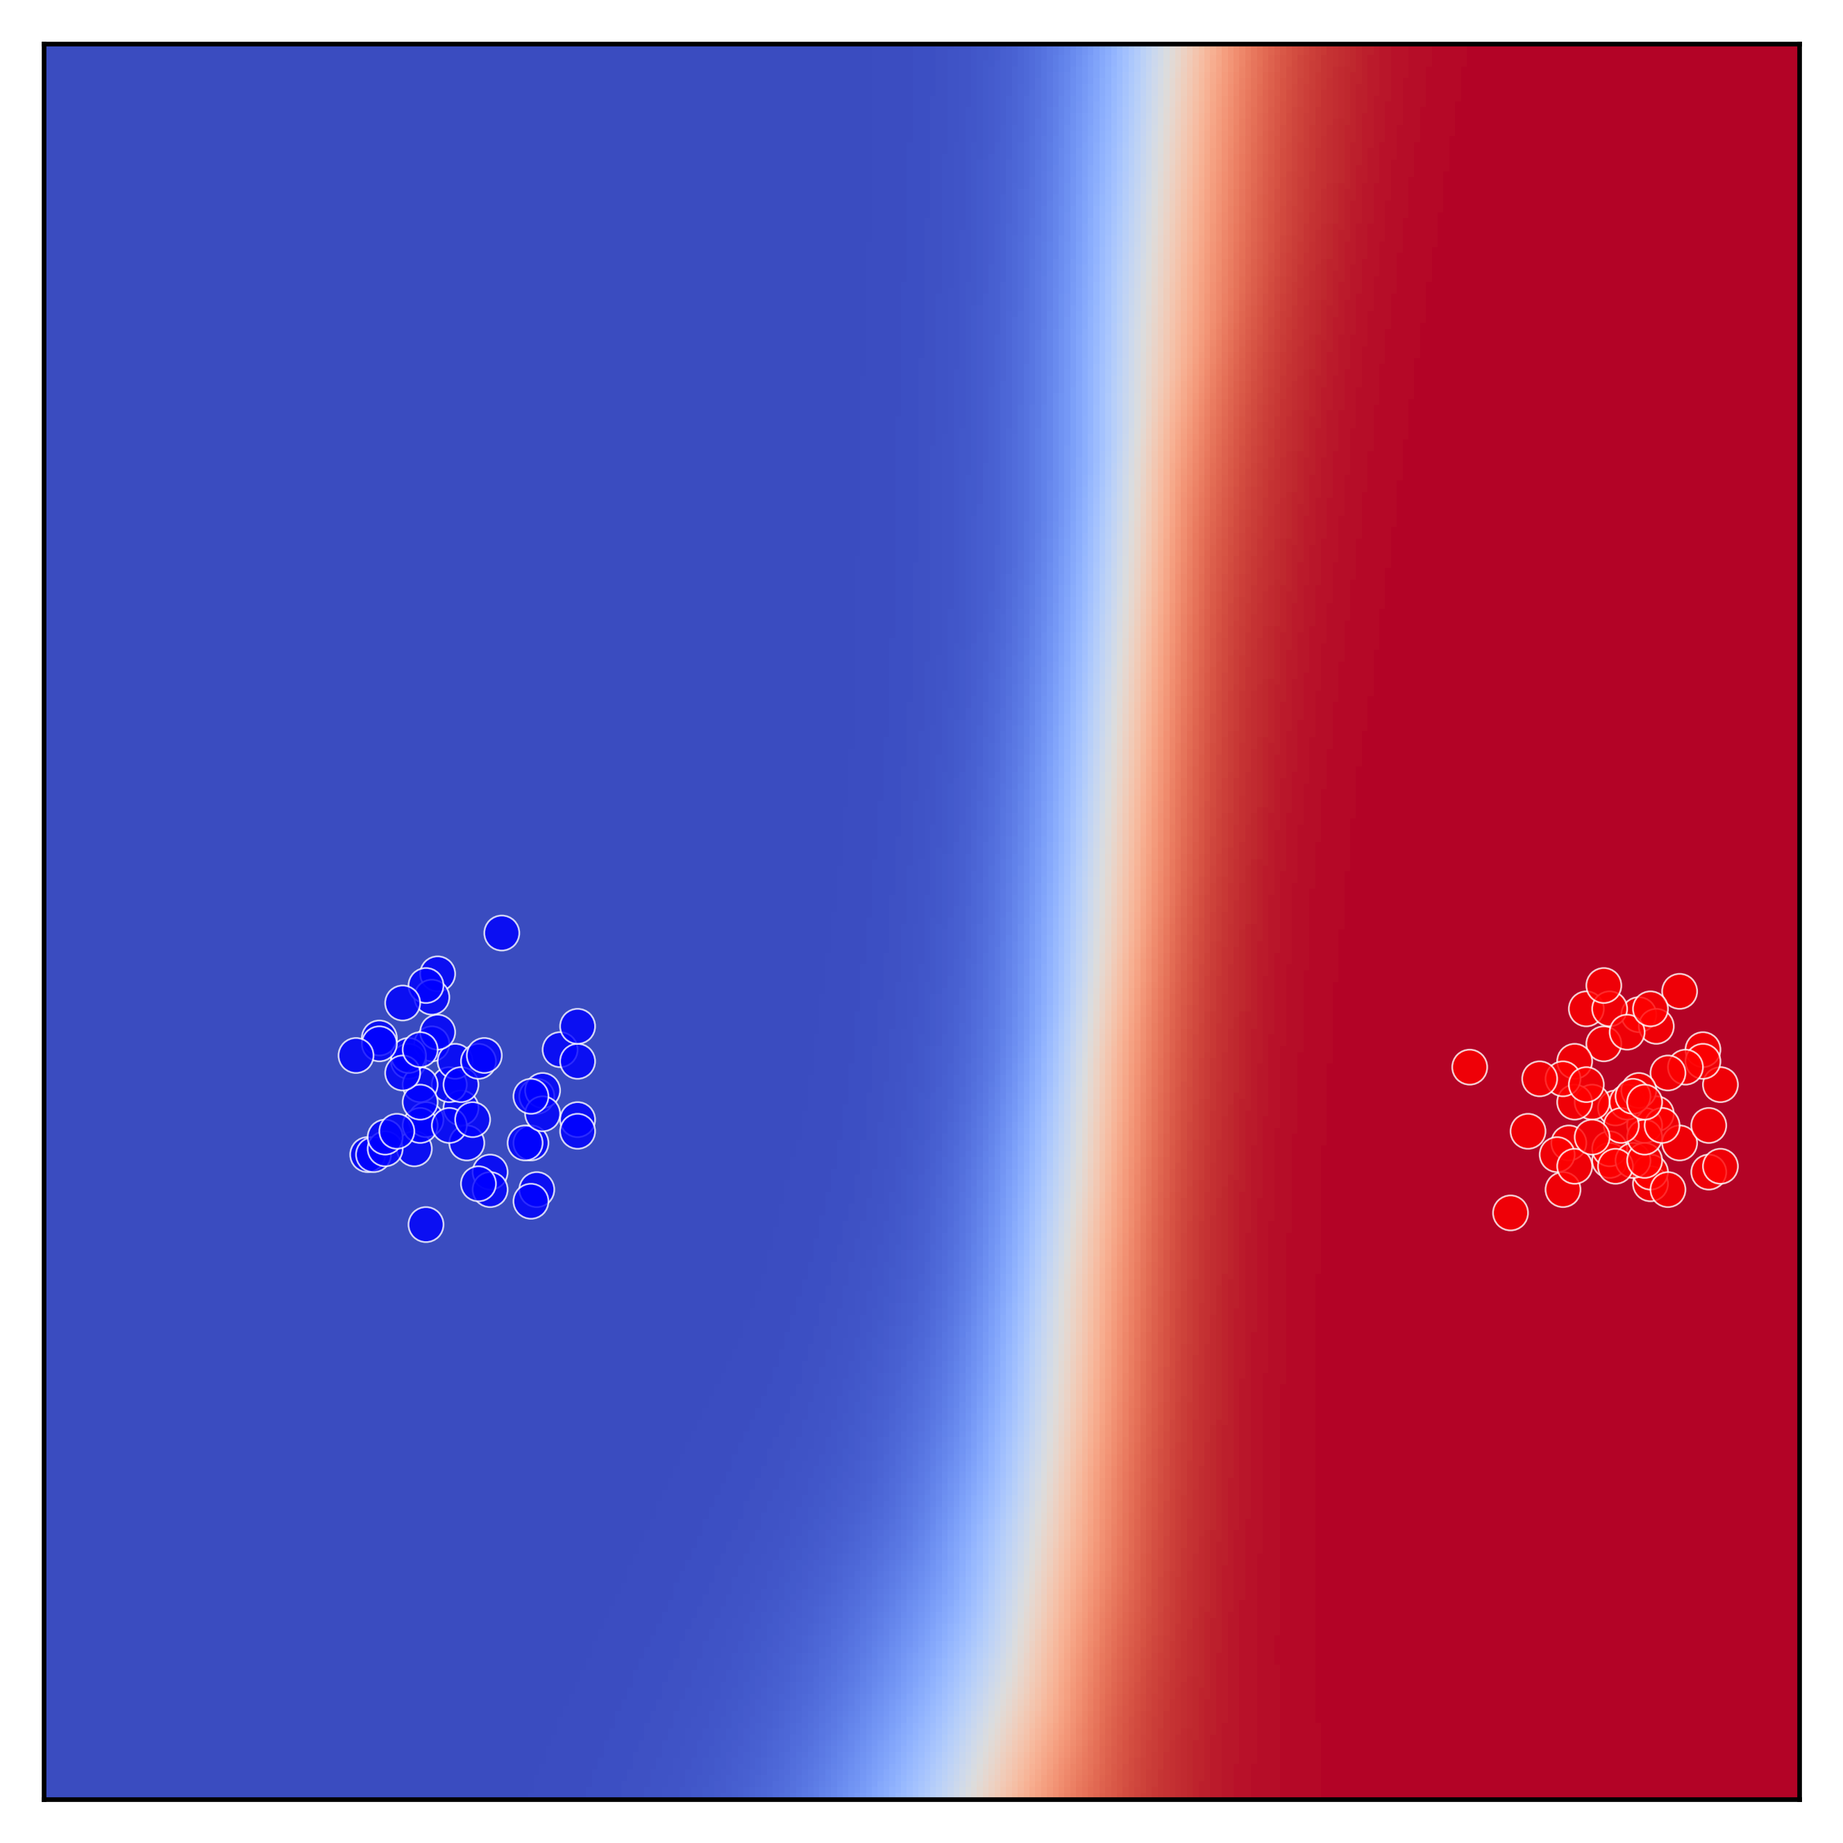
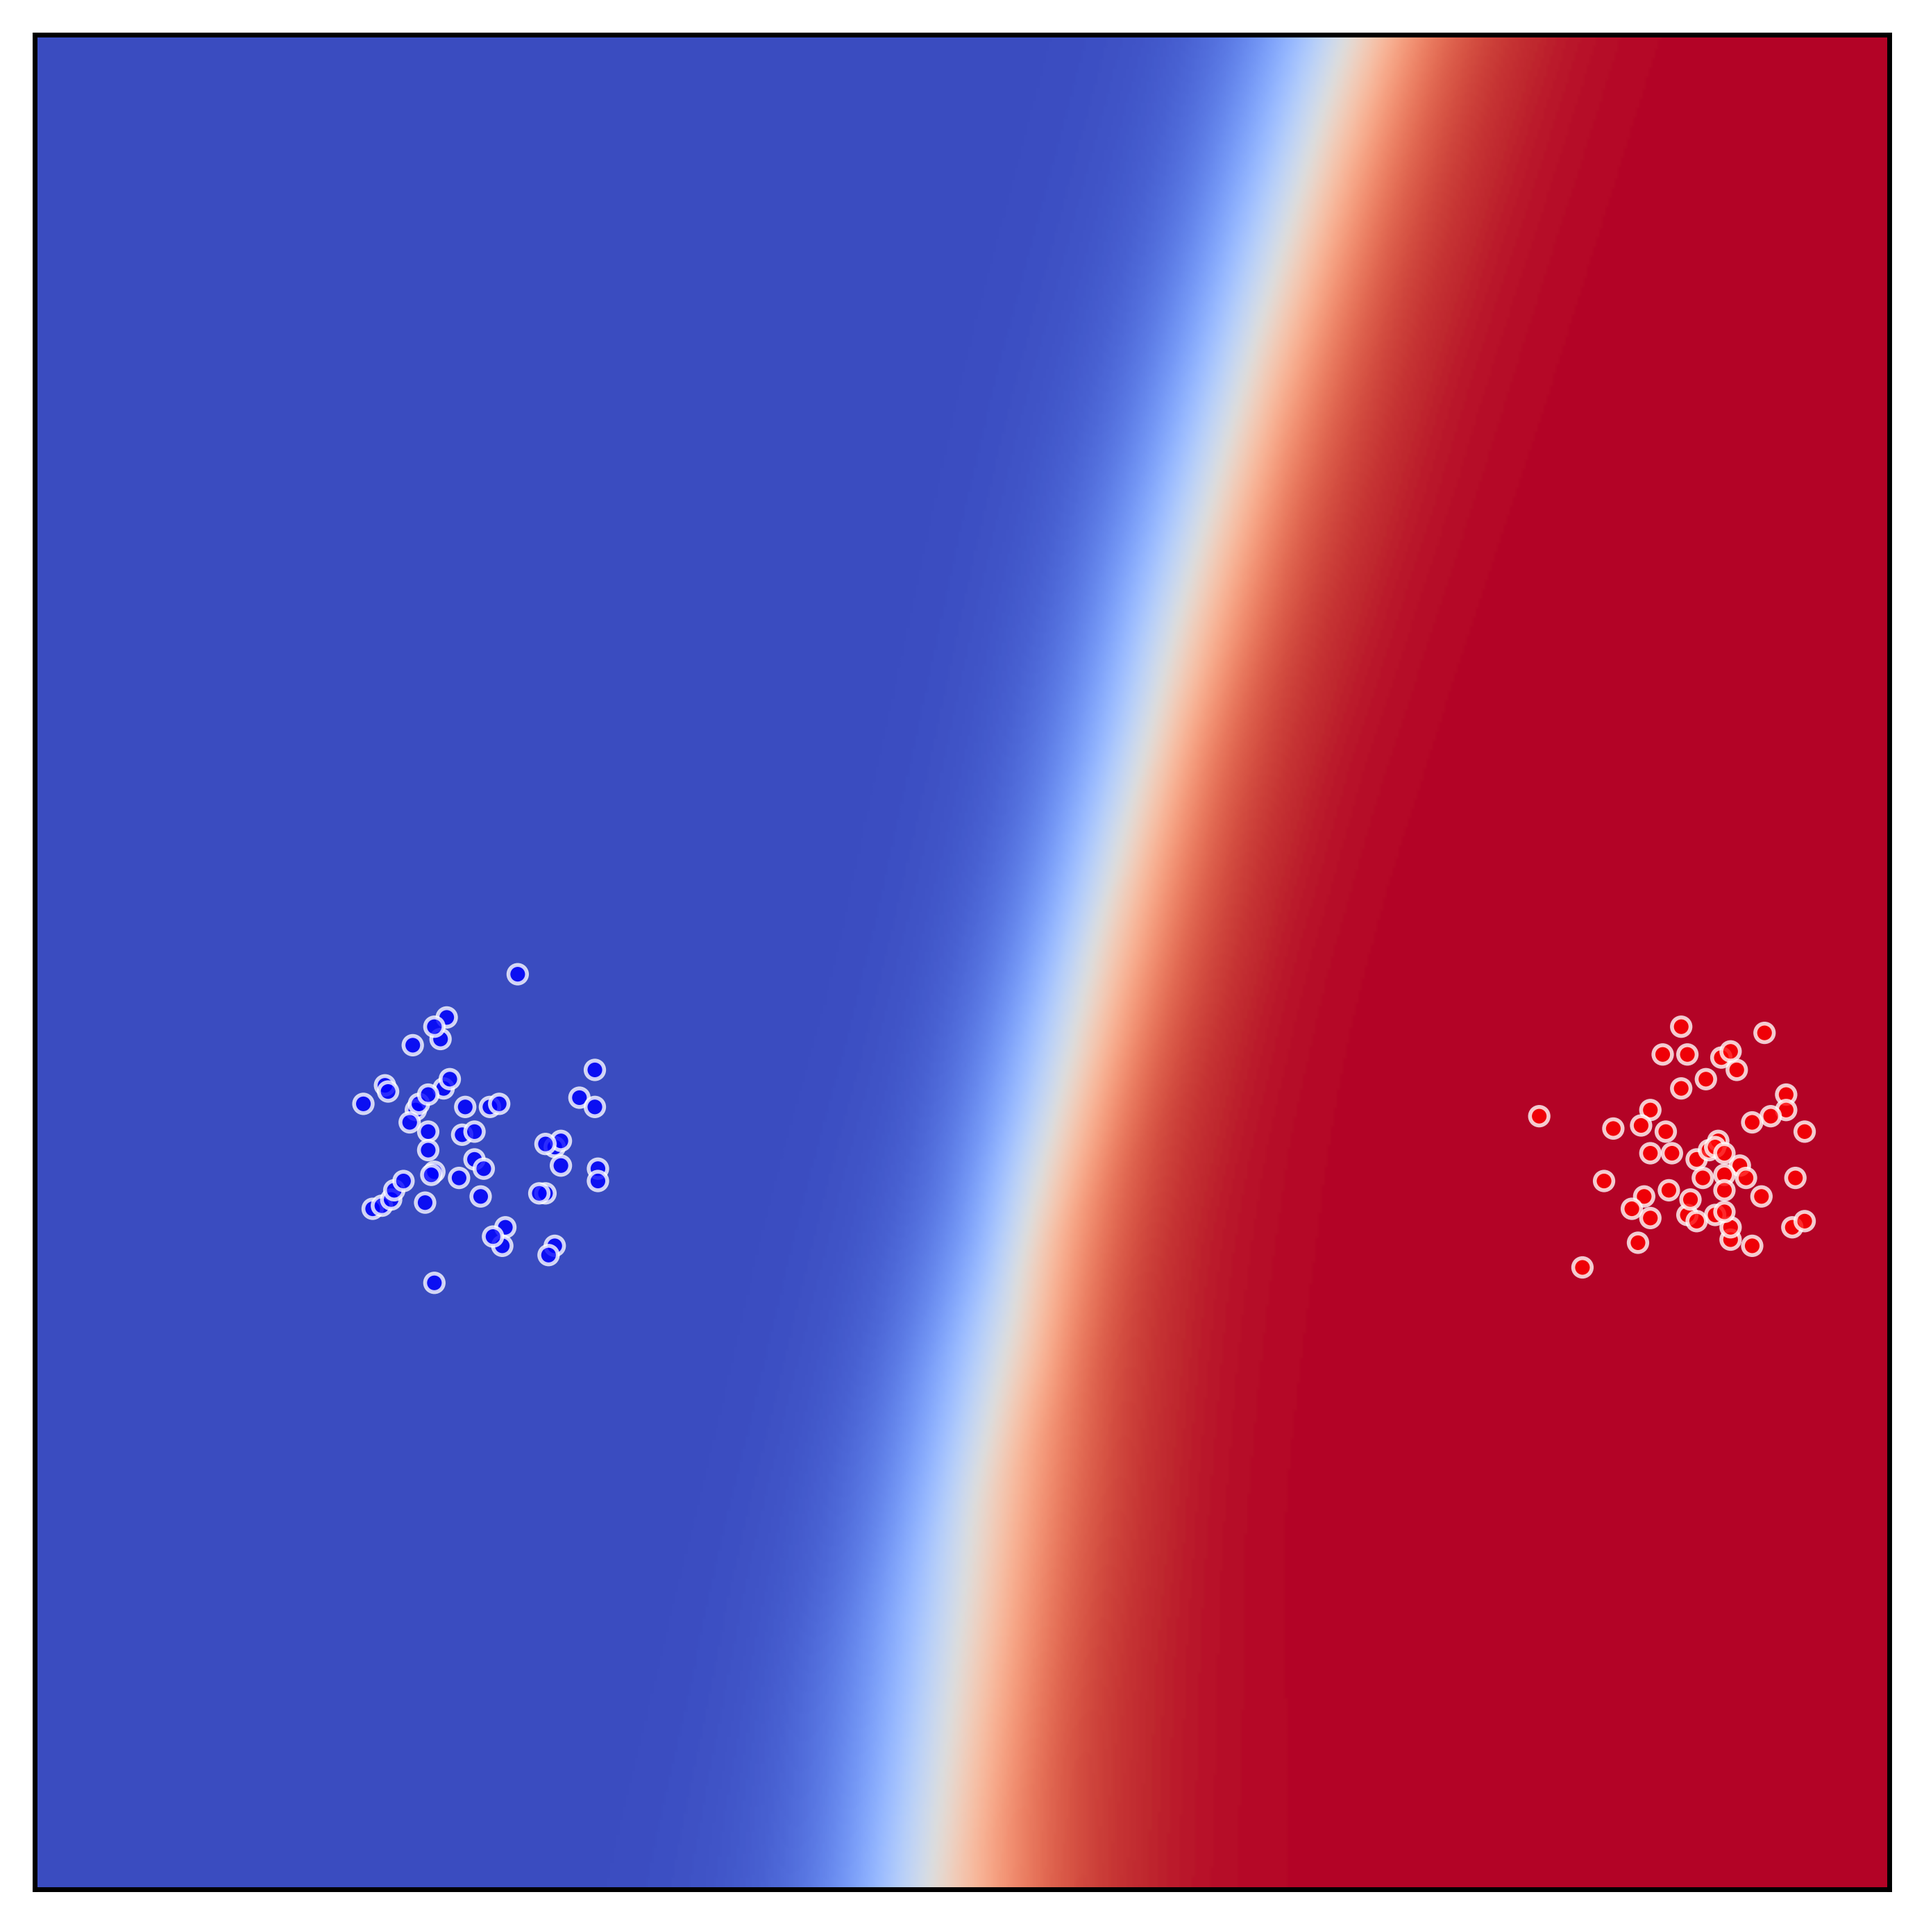
Quick fix, ignore plotting in the middle

diff --git a/model/plotting.py b/model/plotting.py
@@ -43,7 +43,7 @@ def plot_decision_boundary(model, X_, Y_, epoch, mode):
     fig, ax = plt.subplots()
     x_lower, x_upper = -1.5, 1.5
     y_lower, y_upper = -1, 2
-    interval = 0.01
+    interval = 0.005
     x_axis = np.arange(x_lower, x_upper+interval/10, interval)
     y_axis = np.arange(y_lower, y_upper+interval/10, interval)[::-1]
     N = len(x_axis)
@@ -80,9 +80,9 @@ def plot_decision_boundary(model, X_, Y_, epoch, mode):
             if j < x[1]:
                 break
         if y == 0:
-            ax.add_patch(Circle((col_idx, row_idx), 3, fill=True, facecolor='b', edgecolor='w', linewidth=0.3, alpha=0.8))
+            ax.add_patch(Circle((col_idx, row_idx), 3, fill=True, facecolor='b', edgecolor='w', linewidth=0.8, alpha=0.8))
         else:
-            ax.add_patch(Circle((col_idx, row_idx), 3, fill=True, facecolor='r', edgecolor='w', linewidth=0.3, alpha=0.8))
+            ax.add_patch(Circle((col_idx, row_idx), 3, fill=True, facecolor='r', edgecolor='w', linewidth=0.8, alpha=0.8))
 
     im = ax.imshow(colors, cmap='coolwarm')
 
@@ -108,7 +108,7 @@ def plot_decision_boundary(model, X_, Y_, epoch, mode):
     plt.xlabel('')
 
     figure_name = '../plotting/{}/epoch_{}'.format(mode, epoch)
-    plt.savefig(figure_name, bbox_inches='tight', dpi=600)
+    plt.savefig(figure_name, bbox_inches='tight', dpi=500)
     plt.clf()
     plt.close()
 

diff --git a/src_b00/pre_train.py b/src_b00/pre_train.py
@@ -66,8 +66,8 @@ def train(model, X_train, Y_train, X_test, Y_test, criterion, interval=100):
         should_stop = test(model, X_train, Y_train, criterion)
         print()
 
-        if e % interval == 0:
-            plot_decision_boundary(model, X_train, Y_train, e, mode)
+        # if e % interval == 0:
+        #     plot_decision_boundary(model, X_train, Y_train, e, mode)
 
         if should_stop:
             break

diff --git a/src_a00/main.py b/src_a00/main.py
@@ -50,8 +50,8 @@ def train(model, X_train, Y_train, X_test, Y_test, criterion, interval=10):
         test(model, X_test, Y_test, criterion)
         print()
 
-        if e % interval == 0:
-            plot_decision_boundary(model, X_train, Y_train, e, mode)
+        # if e % interval == 0:
+        #     plot_decision_boundary(model, X_train, Y_train, e, mode)
 
         # if should_stop:
         #     return

diff --git a/src_b00/main.py b/src_b00/main.py
@@ -50,8 +50,8 @@ def train(model, X_train, Y_train, X_test, Y_test, criterion, interval=10):
         test(model, X_test, Y_test, criterion)
         print()
 
-        if e % interval == 0:
-            plot_decision_boundary(model, X_train, Y_train, e, mode)
+        # if e % interval == 0:
+        #     plot_decision_boundary(model, X_train, Y_train, e, mode)
 
         # if should_stop:
         #     return

diff --git a/src_c07/main.py b/src_c07/main.py
@@ -50,8 +50,8 @@ def train(model, X_train, Y_train, X_test, Y_test, criterion, interval=10):
         test(model, X_test, Y_test, criterion)
         print()
 
-        if e % interval == 0:
-            plot_decision_boundary(model, X_train, Y_train, e, mode)
+        # if e % interval == 0:
+        #     plot_decision_boundary(model, X_train, Y_train, e, mode)
 
         # if should_stop:
         #     return
